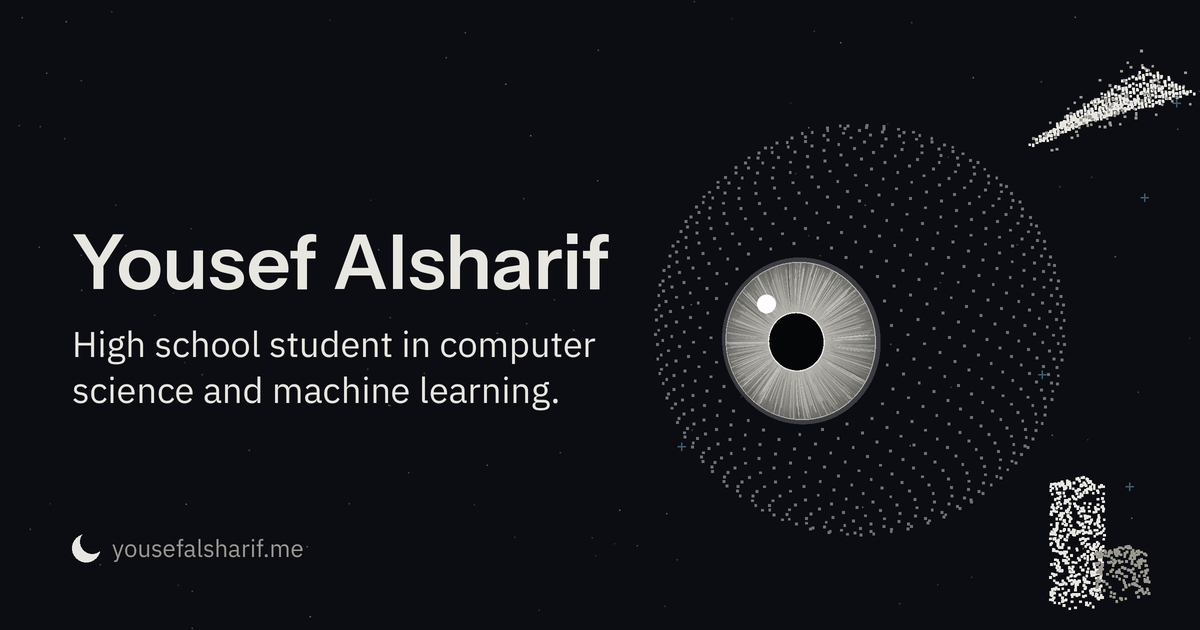
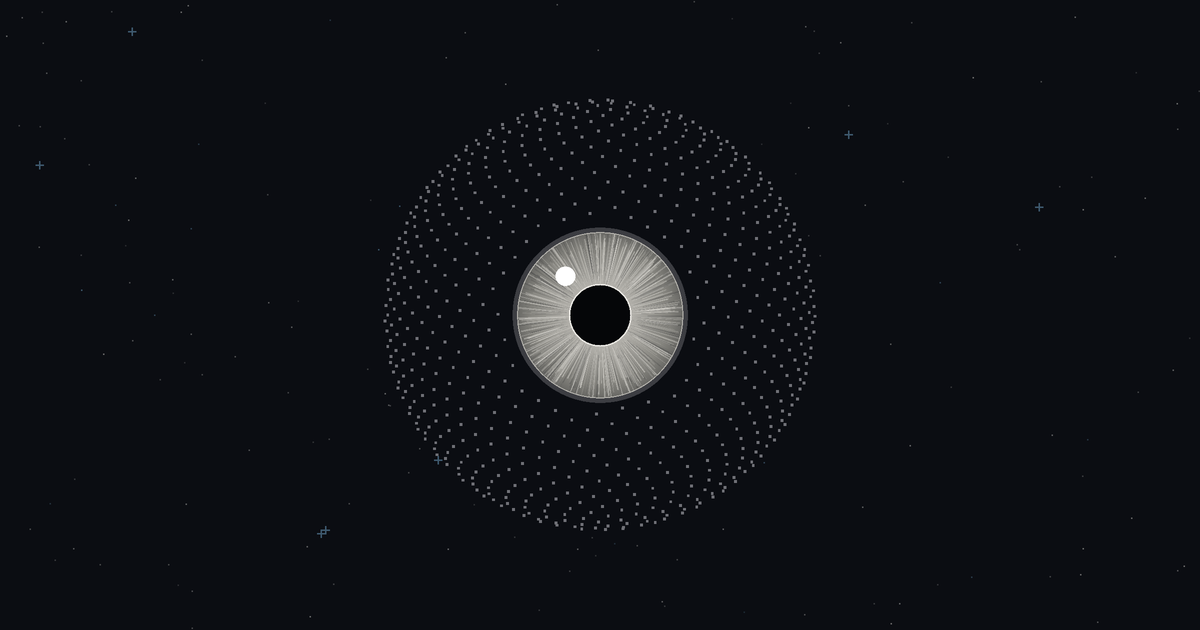
Link preview: centred eye looking straight ahead on the starfield
Drops the name, tagline and project shapes from og.png; the eye now sits
in the middle on its own, with the disc behind it filled so stars don't
show through the sclera points.

diff --git a/scripts/make_og.py b/scripts/make_og.py
@@ -2,25 +2,21 @@
 
 How it works, in plain English:
 - Draws at double size (2400 x 1260) and shrinks at the end, for smooth edges.
-- Background: the site's near-black with a few faint stars.
-- Left: the name in Instrument Sans and the tagline in IBM Plex Sans, from the site fonts.
-- Right: the eye, drawn the same way as on the site: a shell of points with the far side
-  hidden, and a painted iris (radial fibres, pupil edge, darker rim) found per pixel by
-  turning each visible point of the ball back into the eye's own coordinates. It glances
-  toward the name. Beside it, Mizan's trend lines and the Beyond the Streak bars as points.
+- Background: the site's near-black with faint stars and a few small blue sparkles.
+- Centre: the eye, looking straight ahead, drawn the same way as on the site: a shell of
+  points with the far side hidden (the disc behind it is filled, like the site's occluder),
+  and a painted iris (radial fibres, pupil edge, darker rim) found per pixel from the angle
+  between each visible point of the ball and the direction the eye faces. No text.
 Usage: python3 scripts/make_og.py   (from the repo root)
 """
 import math
 import numpy as np
-from PIL import Image, ImageDraw, ImageFont
+from PIL import Image, ImageDraw
 
 S = 2
 W, H = 1200 * S, 630 * S
 BG = (11, 13, 18)
 TEXT = (232, 230, 225)
-LIGHT = (181, 179, 173)
-MID = (154, 152, 144)
-DIM = (61, 67, 80)
 SCLERA = (111, 112, 118)
 rng = np.random.default_rng(11)
 
@@ -28,13 +24,13 @@ im = Image.new('RGB', (W, H), BG)
 d = ImageDraw.Draw(im)
 
 # ---------- stars ----------
-for _ in range(110):
+for _ in range(170):
     x, y = rng.random() * W, rng.random() * H
     a = 0.12 + rng.random() * 0.3
     c = (126, 184, 224) if rng.random() < 0.12 else TEXT
     col = tuple(int(BG[i] + (c[i] - BG[i]) * a) for i in range(3))
     d.rectangle([x, y, x + S, y + S], fill=col)
-for _ in range(5):
+for _ in range(8):
     x, y = rng.random() * W, rng.random() * H
     col = tuple(int(BG[i] + ((126, 184, 224)[i] - BG[i]) * 0.45) for i in range(3))
     r = 4 * S
@@ -55,8 +51,8 @@ def square(cx, cy, size, col):
 
 
 # ---------- the eye ----------
-EX, EY, ER = 860 * S, 330 * S, 205 * S
-YAW, PITCH = -0.32, 0.06  # glancing left, toward the name
+EX, EY, ER = 600 * S, 315 * S, 215 * S
+YAW, PITCH = 0.0, 0.0  # looking straight ahead
 IRIS, PUPIL = 0.42, 0.14
 
 # Painted iris: same recipe as src/lib/scene/objects.ts
@@ -87,6 +83,7 @@ td.rectangle([0, TH - 18, TW, TH - 16], fill=(181, 179, 173))
 T = np.asarray(tex)
 
 # Per pixel on the visible half of the ball: back into eye coordinates, then the iris texture.
+d.ellipse([EX - ER * 0.985, EY - ER * 0.985, EX + ER * 0.985, EY + ER * 0.985], fill=BG)
 arr = np.asarray(im).copy()
 ys, xs = np.mgrid[EY - ER:EY + ER, EX - ER:EX + ER]
 nx, ny = (xs - EX) / ER, -(ys - EY) / ER
@@ -124,54 +121,6 @@ for i in range(1500):
 gx, gy, gz = rot((-0.16 / 1.0, 0.18, 0.97), YAW, PITCH)
 gr = 0.045 * ER
 d.ellipse([EX + gx * ER - gr, EY - gy * ER - gr, EX + gx * ER + gr, EY - gy * ER + gr], fill=(255, 255, 255))
-
-# ---------- Mizan: 15 trend lines ----------
-MX, MY, MR = 1112 * S, 92 * S, 70 * S
-for a in range(15):
-    rate = 0.24 + 0.25 * a / 14
-    z = -0.7 + 1.4 * a / 14
-    for s in range(44):
-        on = s < 34
-        u = s / 33 if on else rng.random()
-        res = (rng.random() + rng.random() + rng.random() - 1.5) * (0.07 if on else 0.3)
-        p = rot((-0.95 + 1.9 * u, -0.78 + 1.5 * (rate / 0.49) * u + res, z), -0.55, 0.32)
-        square(MX + p[0] * MR, MY - p[1] * MR, 2.2 * S, TEXT if on else MID)
-
-# ---------- Beyond the Streak: users +23% vs bookings +8% ----------
-BX, BY, BR = 1100 * S, 540 * S, 78 * S
-
-
-def bar(x0, h, n, col):
-    w = 0.5
-    for _ in range(n):
-        pick = rng.random() * (w * h * 4 + w * w)
-        s1, s2 = rng.random(), rng.random()
-        if pick < w * w:
-            v = (x0 + s1 * w, -0.8 + h, -w / 2 + s2 * w)
-        else:
-            f = int((pick - w * w) // (w * h))
-            yv = -0.8 + s2 * h
-            v = [(x0 + s1 * w, yv, -w / 2), (x0 + s1 * w, yv, w / 2), (x0, yv, -w / 2 + s1 * w), (x0 + w, yv, -w / 2 + s1 * w)][min(f, 3)]
-        p = rot(v, 0.6, 0.3)
-        square(BX + p[0] * BR, BY - p[1] * BR, 2.2 * S, col)
-
-
-bar(-0.6, 1.6, 560, TEXT)
-bar(0.1, 1.6 * 8 / 23, 200, MID)
-
-# ---------- text ----------
-name = ImageFont.truetype('public/fonts/InstrumentSans-SemiBold.woff2', 76 * S)
-body = ImageFont.truetype('public/fonts/IBMPlexSans-Regular.woff2', 36 * S)
-small = ImageFont.truetype('public/fonts/IBMPlexSans-Regular.woff2', 24 * S)
-d.text((72 * S, 215 * S), 'Yousef Alsharif', font=name, fill=TEXT)
-d.text((72 * S, 320 * S), 'High school student in computer', font=body, fill=TEXT)
-d.text((72 * S, 366 * S), 'science and machine learning.', font=body, fill=TEXT)
-# the moon logo + address
-mx, my, mr = 86 * S, 548 * S, 14 * S
-d.ellipse([mx - mr, my - mr, mx + mr, my + mr], fill=TEXT)
-cr = mr * 0.86
-d.ellipse([mx + mr * 0.45 - cr, my - mr * 0.45 - cr, mx + mr * 0.45 + cr, my - mr * 0.45 + cr], fill=BG)
-d.text((112 * S, 532 * S), 'yousefalsharif.me', font=small, fill=MID)
 
 im.resize((1200, 630), Image.LANCZOS).save('public/og.png', optimize=True)
 print('wrote public/og.png')
